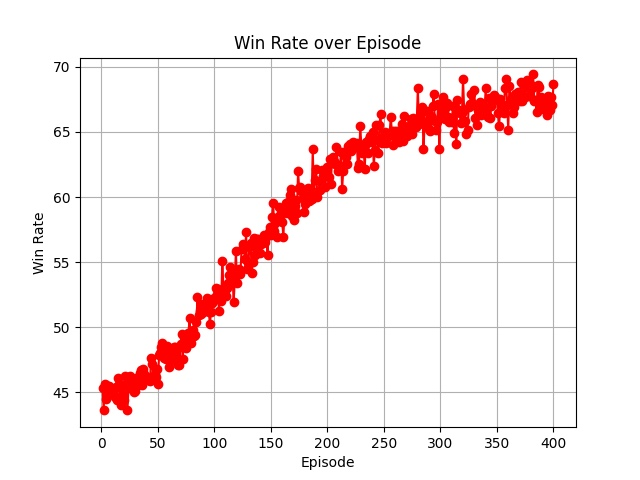
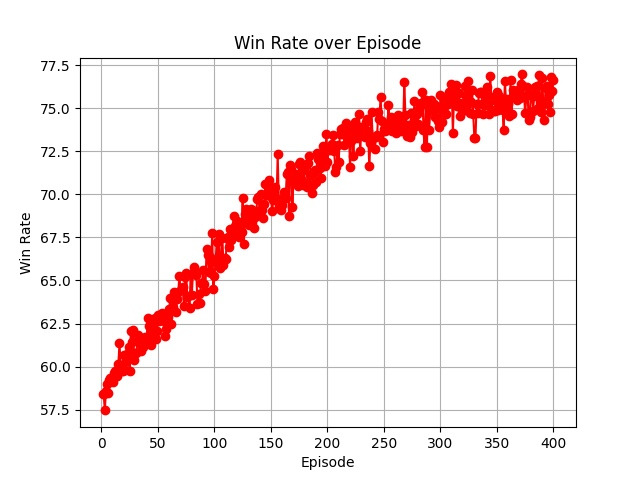
some corrections lab10

diff --git a/labs/lab10/lab10.md b/labs/lab10/lab10.md
@@ -61,7 +61,7 @@ The _InputHandler_ class is used to handle user input during human vs. AI gamepl
 
 ## Conclusion:
 In summary, the code serves as an exploration of reinforcement learning techniques in the context of Tic-Tac-Toe. It demonstrates how an AI player can learn and adapt its strategy through reinforcement, and it provides avenues for evaluating and interacting with the trained agent. Our implementation tries to find the optimal positions to win the game; since it is not a complete Montecarlo strategy (because it does not generate all the possible states), it suffers against a real player because it can't block his/her moves.
-In the end our model reaches good performances against a random model (about 70% win rate), this proves that the reinforcement learning technique is able to find an "optimal" strategy to win in most of the cases.
+In the end our model reaches good performances against a random model (about 75% win rate), this proves that the reinforcement learning technique is able to find an "optimal" strategy to win in most of the cases.
 
 ## Contribution
 Made with the contribuition of Andrea Sillano s314771
